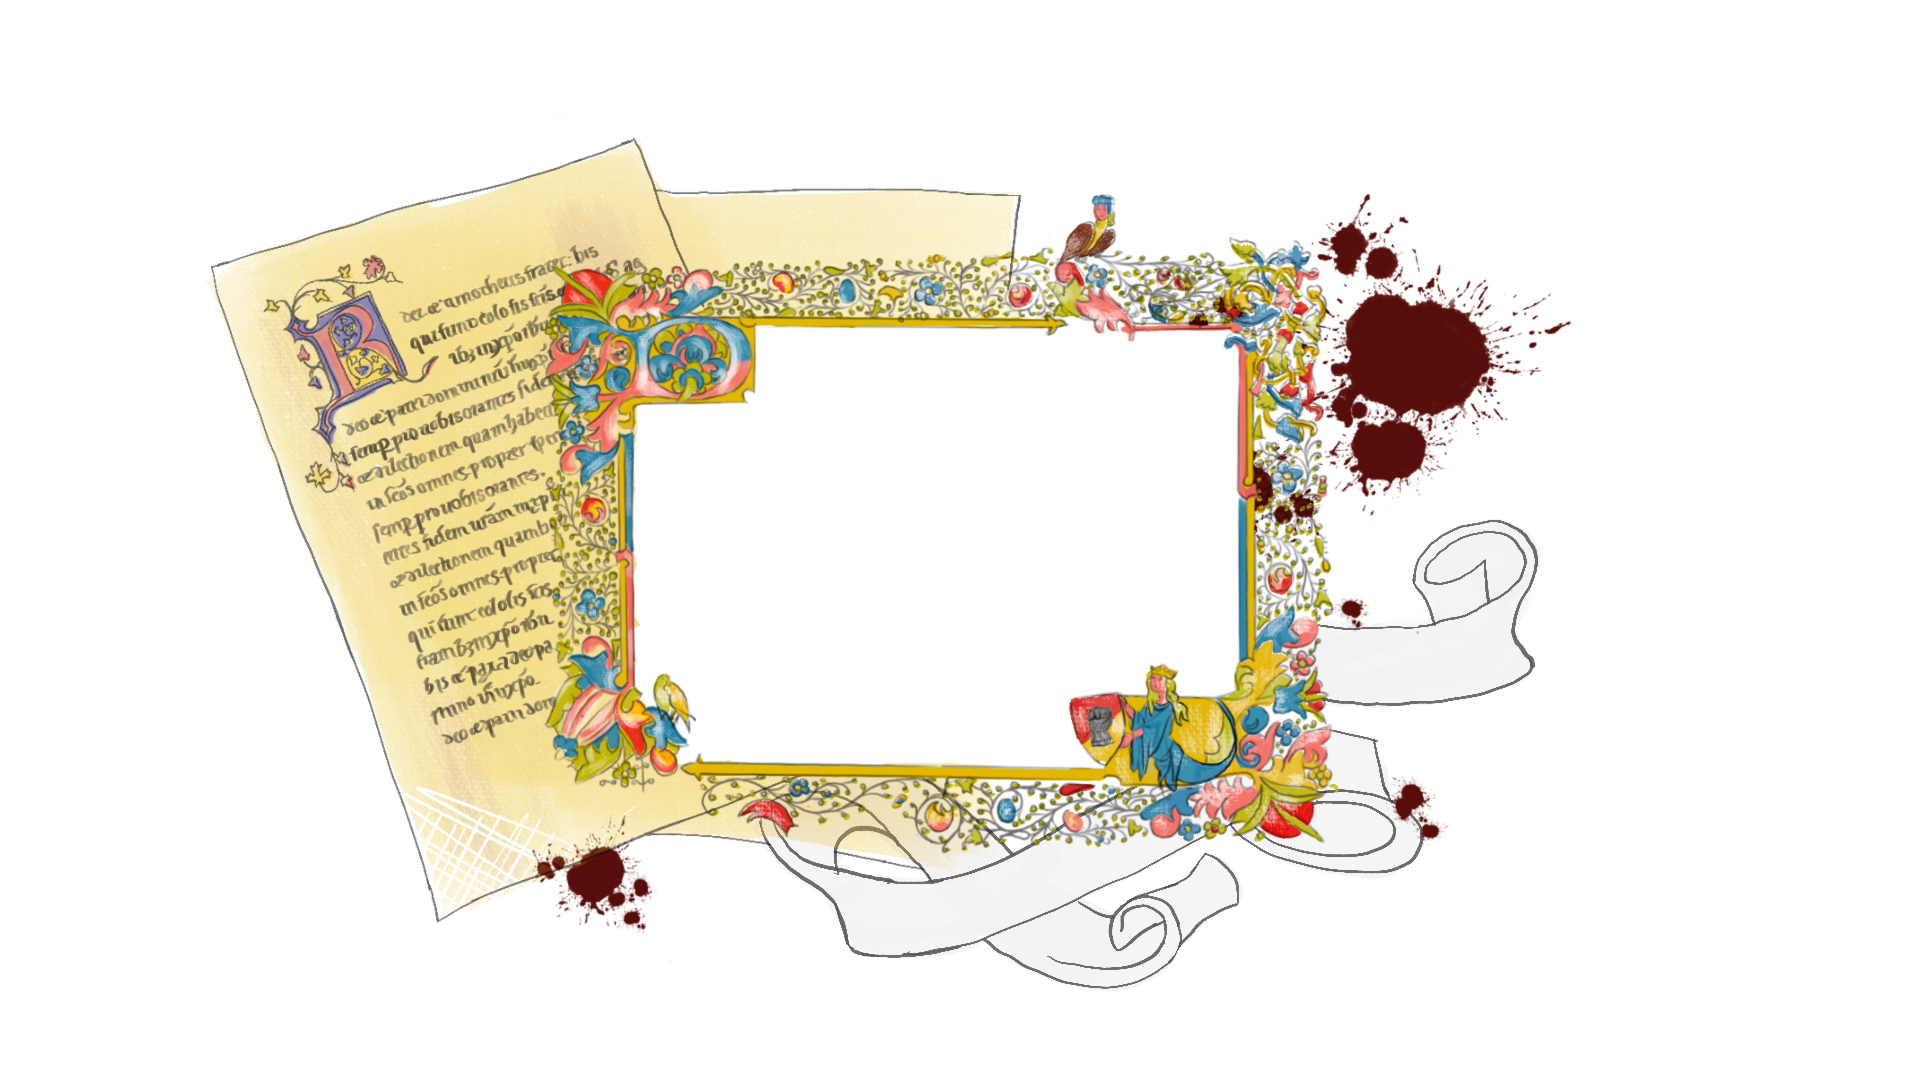
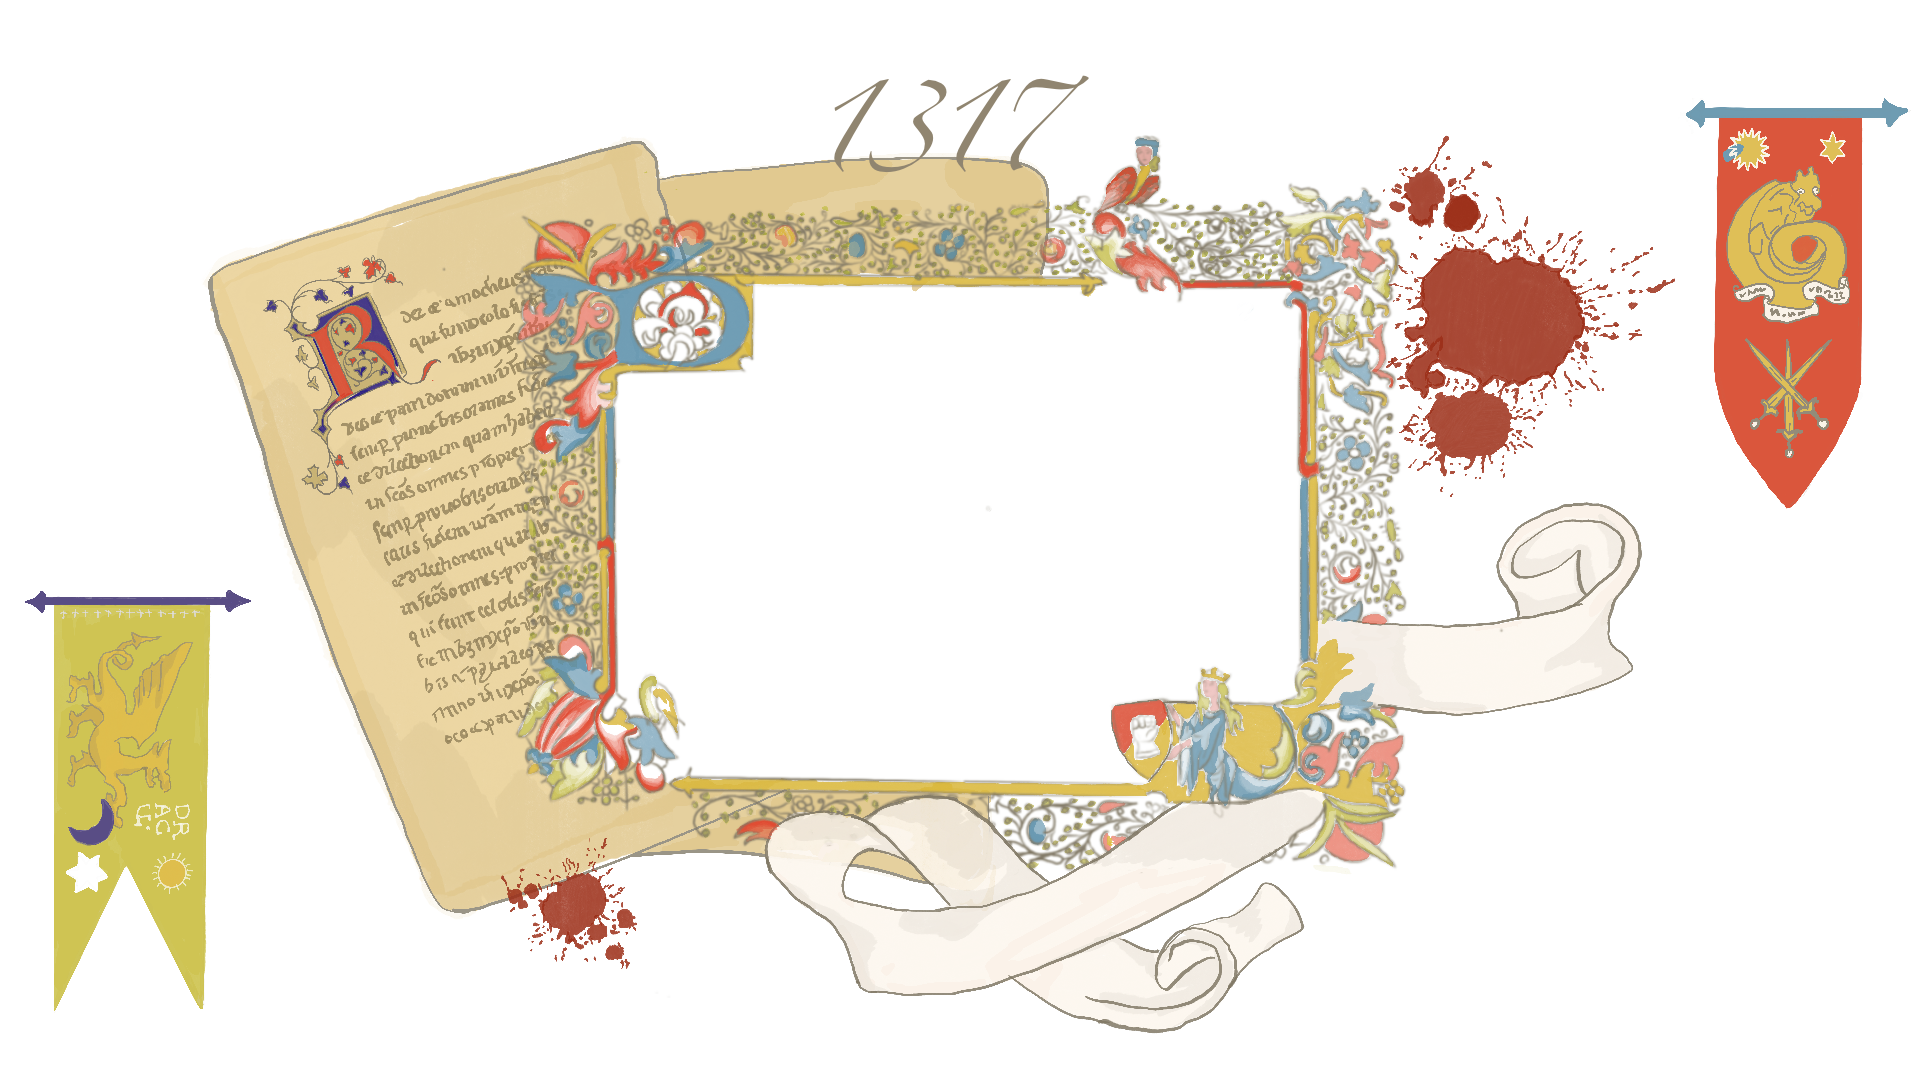
fix: update png for frame

Changed region(s): [[0.0938, 0.0611, 1.0, 0.9472], [0.0, 0.55, 0.125, 0.9167]]

diff --git a/src/Scene.jsx b/src/Scene.jsx
@@ -18,6 +18,7 @@ import useCameraControl from './hooks/useCameraControl'
 import useSceneTransition from './hooks/useSceneTransition'
 import useTextureLoader from './hooks/useTextureLoader'
 import useActivePortal from './hooks/useActivePortal'
+
 // stores
 import useSceneStore from './stores/useSceneStore'
 import Intro from './componants/UI/Intro'
@@ -25,6 +26,7 @@ import Conclusion from './componants/UI/Conclusion'
 import ScrollableScene from './componants/ScrollableScene'
 import {useEasedCamera} from './hooks/useEasedCamera'
 import ParcheminBackground from './componants/ParcheminBackground'
+import ArrowButton from './componants/ArrowButton'
 
 // scene centrale
 export default function Scene() {
@@ -35,6 +37,7 @@ export default function Scene() {
 
     // load des textures + cadres
     const warFrame = useLoader(TextureLoader, ASSETS.WAR_FRAME)
+    const modernFrame = useLoader(TextureLoader, ASSETS.MODERN_FRAME)
     const medievalFrame = useLoader(TextureLoader, ASSETS.MEDIEVAL_FRAME)
 
     // hooks
@@ -71,10 +74,11 @@ export default function Scene() {
                 >
                     <Suspense>
                         <MedievalScene />
+                        {/* <ArrowButton position={[7, 0, 0]} onClick={handleClickButton} /> */}
                     </Suspense>
                 </Portal>
 
-                {/* Portail 2 - Victorien */}
+                {/* Portail 2 - Modern */}
                 <Portal
                     id={DATA.moderne.name}
                     name={DATA.moderne.date}
@@ -82,7 +86,7 @@ export default function Scene() {
                     onClick={() => {
                         if (canEnterPortal) setCurrentScene(DATA.moderne.name)
                     }}
-                    textureDecoration={warFrame}
+                    textureDecoration={modernFrame}
                 >
                     <Suspense>
                         <VictorianScene />
